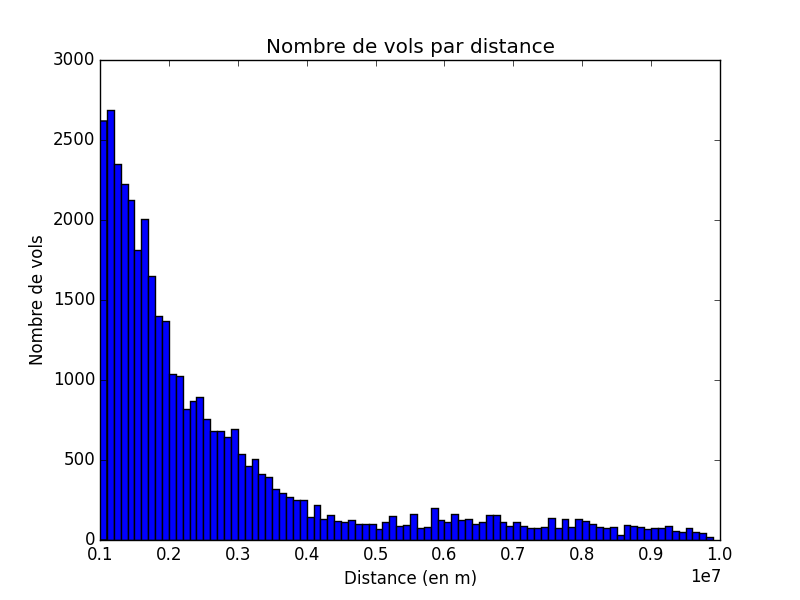
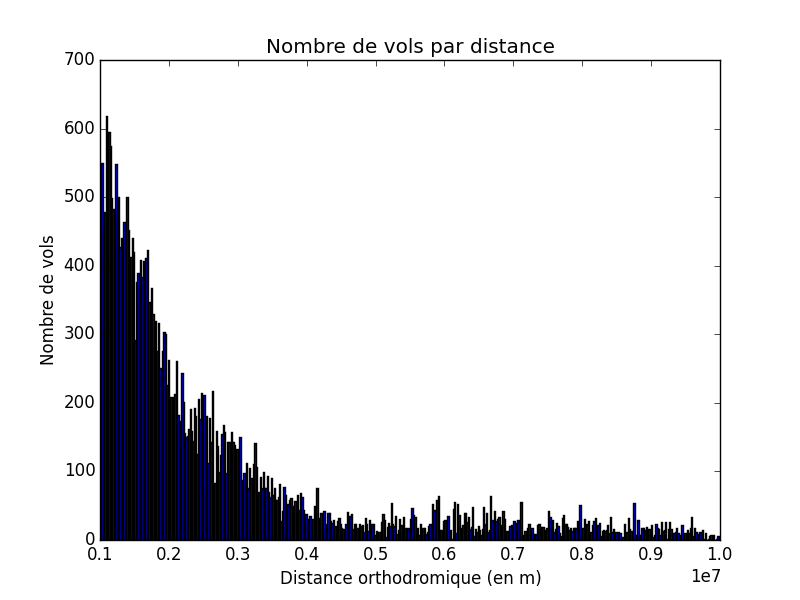
refactor

Changed region(s): [[0.0312, 0.18, 0.9062, 0.9], [0.3438, 0.93, 0.6875, 0.99], [0.0625, 0.09, 0.125, 0.12]]

diff --git a/rapport/rapport.html b/rapport/rapport.html
@@ -1,0 +1,10 @@
+<h1 id="introduction">Introduction</h1>
+<p>Dans ce projet, nous avions à réaliser un programme permettant de récupérer des données et les analyser en créant un histogramme et une carte du monde permettant un affichage graphique de ces données.</p>
+<p>Nous avons choisis le thème des aéroports avec les données présentes <a href="https://github.com/jpatokal/openflights/tree/master/data">dans ce Github</a>.</p>
+<p>Ces données vont nous permettre de faire un histogramme des nombres de vols en fonction des distances orthodromiques entre deux aéroports. La carte du monde, représentera les différents trajet des avions que l'on colorera différemment suivant le pays de départ.</p>
+<h1 id="histogramme">Histogramme</h1>
+<div class="figure">
+<img src="img/histo.png" alt="Histogramme" />
+<p class="caption">Histogramme</p>
+</div>
+<h1 id="carte-du-monde">Carte du monde</h1>

diff --git a/scripts/fonctions.py b/scripts/fonctions.py
@@ -1,34 +1,36 @@
+# Import Lib
 import numpy as np
 import csv
 from collections import namedtuple
 import matplotlib.pyplot as plt
+# Import persos
 from scripts.variables import *
 
 
 def csvToList(csvfile):
     with open(csvfile, 'r') as myfile:
-        r = csv.reader(myfile, delimiter=',')
-        next(r, None)
-        l = list(r)
-    return l
+        reader = csv.reader(myfile, delimiter=',')
+        next(reader, None)
+        liste = list(reader)
+    return liste
 
 
 def tri_airports():
     dic = {}
-    l = csvToList(csvAirport)
-    ID = namedtuple('ID', ['Ville', 'Pays', 'Lat', 'Long', 'Contient'])
-    for i in l:
-        valeur = ID(i[2], i[3], (i[6]), (i[7]), i[10])
+    liste = csvToList(csvAirport)
+    identifier = namedtuple('ID', ['Ville', 'Pays', 'Lat', 'Long', 'Contient'])
+    for i in liste:
+        valeur = identifier(i[2], i[3], (i[6]), (i[7]), i[10])
         dic[i[4]] = valeur
     return dic
 
 
 def tri_airlines():
     dic = {}
-    l = csvToList(csvAirline)
-    Company = namedtuple('Company', ['Pays'])
-    for i in l:
-        valeur = Company(i[6])
+    liste = csvToList(csvAirline)
+    company = namedtuple('Company', ['Pays'])
+    for i in liste:
+        valeur = company(i[6])
         dic[i[1]] = valeur
     return dic
 
@@ -66,26 +68,11 @@ def distance2Airports(csvfile, code1, code2):
 
 
 def createCsvDistance():
-    valeur = []
-    l = csvToList(csvRoutes)
+    liste = csvToList(csvRoutes)
     with open(csvDistance, 'w', encoding='utf-8') as csvfile:
-        c = csv.writer(csvfile, delimiter=',')
-        c.writerow(["Depart", "Arrivee", "Distance"])
-        for i in range(0, len(l)):
-            distance = distance2Airports(csvAirport, l[i][2], l[i][4])
-            c.writerow([l[i][2], l[i][4], distance])
+        csvVar = csv.writer(csvfile, delimiter=',')
+        csvVar.writerow(["Depart", "Arrivee", "Distance"])
+        for i in range(0, len(liste)):
+            distance = distance2Airports(csvAirport, liste[i][2], liste[i][4])
+            csvVar.writerow([liste[i][2], liste[i][4], distance])
             print(round(((i/67662)*100), 2), "%")
-
-
-def histogram():
-    l = csvToList(csvDistance)
-    a = []
-    for i in range(0, len(l)):
-        if l[i][2] != '':
-            a.append(float(l[i][2]))
-    b = list(range(1000000,10000000,100000))
-    n, bins, patches = plt.hist(a, bins=b)
-    plt.xlabel('Distance (en m)')
-    plt.ylabel('Nombre de vols')
-    plt.title('Nombre de vols par distance')
-    plt.savefig(histo)

diff --git a/scripts/histo.py b/scripts/histo.py
@@ -1,0 +1,20 @@
+# Import Lib
+import matplotlib.pyplot as plt
+# Imports perso
+from scripts.fonctions import csvToList
+from scripts.variables import histo
+from scripts.variables import csvDistance
+
+
+def histogram():
+    liste = csvToList(csvDistance)
+    ordonnee = []
+    for i in range(0, len(liste)):
+        if liste[i][2] != '':
+            ordonnee.append(float(liste[i][2]))
+    abscisse = list(range(1000000, 10000000, 20000))
+    plt.hist(ordonnee, abscisse)
+    plt.xlabel('Distance orthodromique (en m)')
+    plt.ylabel('Nombre de vols')
+    plt.title('Nombre de vols par distance')
+    plt.savefig(histo)

diff --git a/main.py b/main.py
@@ -1,6 +1,6 @@
 from scripts.variables import *
 from scripts.fonctions import *
-
+from scripts.histo import histogram
 
 # Creation du fichier csv (optionnel) decommenter pour utiliser.
 # Tres long a l'execution

diff --git a/rapport/rapport.md b/rapport/rapport.md
@@ -1,6 +1,7 @@
+
 ---
 title: Rapport projet Open Data Python
-author: Romain GILLE, Valentine Borie
+author: Romain GILLE, Valentine BORIE
 date: \today
 geometry: margin=1in
 ...
@@ -18,6 +19,8 @@ Ces données vont nous permettre de faire un histogramme des nombres de vols en
 fonction des distances orthodromiques entre deux aéroports. La carte du monde,
 représentera les différents trajet des avions que l'on colorera différemment
 suivant le pays de départ.
+
+\newpage
 
 # Histogramme
 
